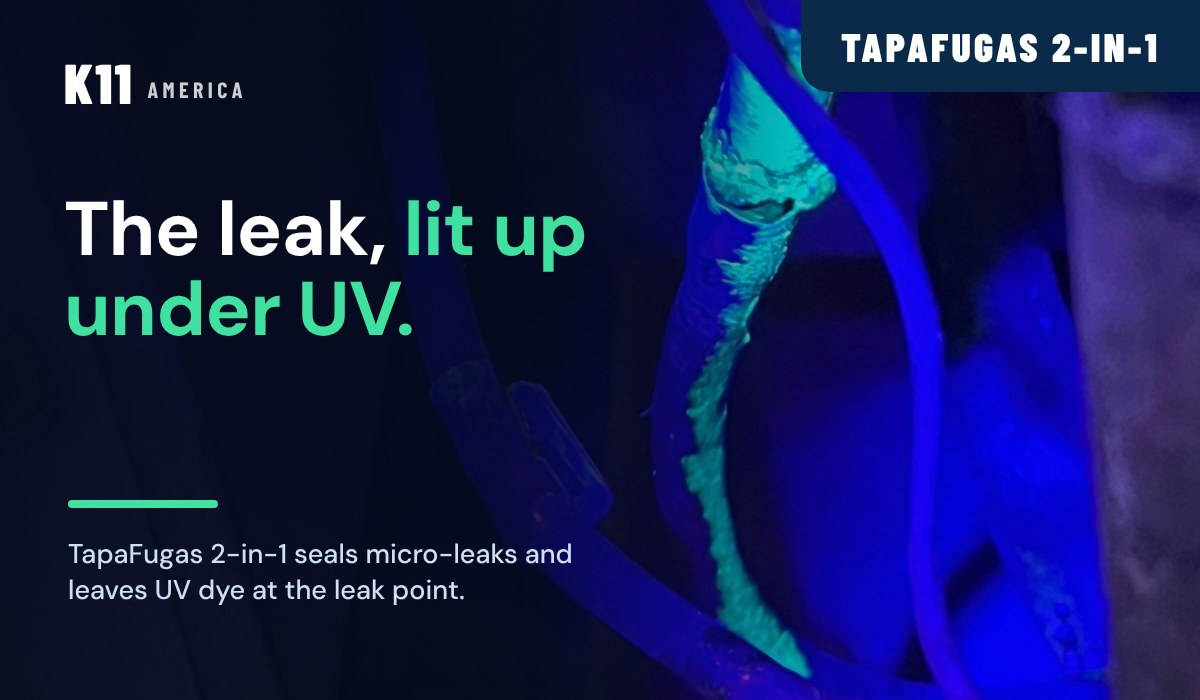
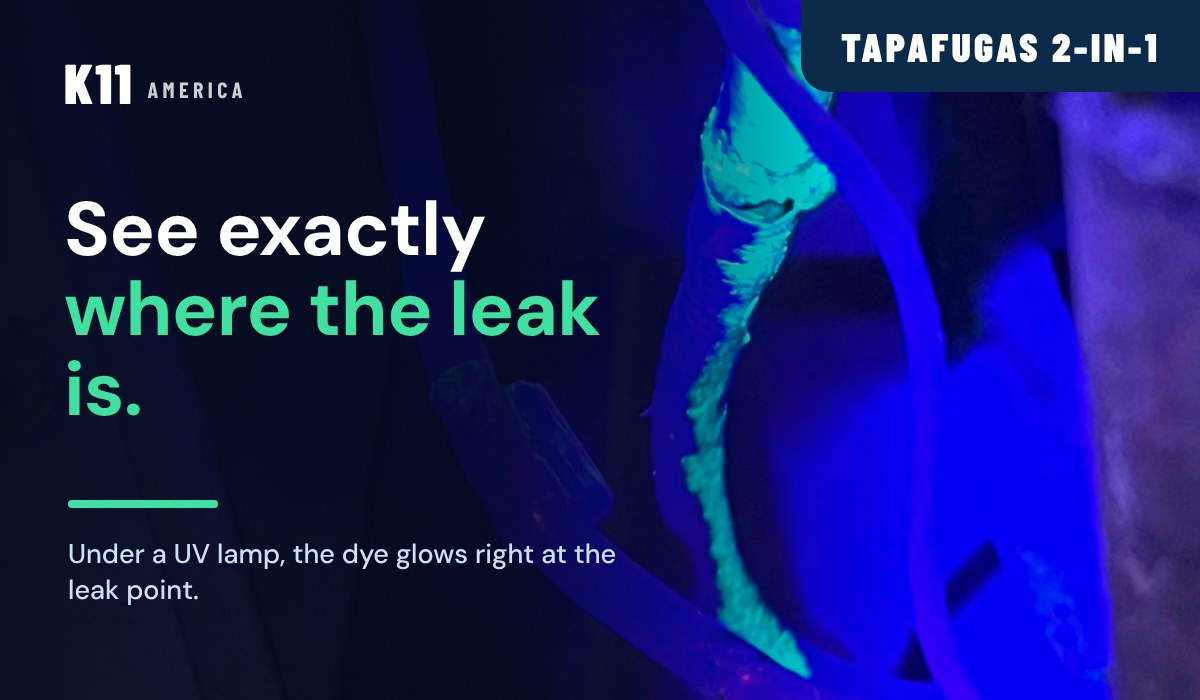
Campaña 100% en inglés; mail 2 en 1 con foto UV anotada
Claude-Session: https://claude.ai/code/session_01Jn8LK7FzASTasJC2Ctiu8V

diff --git a/api/_lib/campana_mail.js b/api/_lib/campana_mail.js
@@ -53,12 +53,12 @@ const M = {
            a: ['Sella Plus comes with a blue liquid, and it is there on purpose: it makes the product easier to see at the moment of application. A good point to share with the technicians who buy at your counter.', 'K11 explains it this way: the technician can see better where the product was applied, which adds control to the process.'] },
       listT: 'Why the color matters', list: [['Visible at application', 'The blue liquid makes it easier to see the product as you apply it.'], ['More control', 'You can see better where the product went.'], ['Easier future service', 'When opening or checking a unit, the technician can tell whether a sealant was applied before.'], ['Made for the routine', 'A choice made for those who apply, check and maintain the system.']],
       cta: 'See Sella Plus', ctaHref: 'h' },
-    6: { s: e => `See the leak under UV · TapaFugas 2-in-1 for ${e}`, pre: 'Seals micro-leaks and leaves UV dye at the leak point.',
-      hero: 'The leak, lit up under UV.',
-      photo: 'Field photo: UV dye glowing at the leak point under a UV lamp.',
-      p: { c: ['TapaFugas 2-in-1 does two jobs in one injection: it seals micro-leaks and leaves UV dye at the leak point.', 'With a UV lamp, the dye shows where the leak is, as in the field photo below. Fewer guesses on the next visit.'],
-           a: ['TapaFugas 2-in-1 does two jobs in one injection: it seals micro-leaks and leaves UV dye at the leak point. An easy one to demonstrate at your counter.', 'With a UV lamp, the dye shows where the leak is, as in the field photo below.'] },
-      listT: 'TapaFugas 2-in-1', list: [['Two jobs, one injection', 'Seals micro-leaks and leaves UV dye in the system.'], ['Visible with UV light', 'The dye glows at the leak point under a UV lamp.'], ['Same 10 ml syringe', 'Same dose guide as TapaFugas K11. Always follow the label.']],
+    6: { s: e => `See exactly where the leak is · TapaFugas 2-in-1 for ${e}`, pre: 'Seals micro-leaks and leaves UV dye at the leak point.',
+      hero: 'See exactly where the leak is.',
+      photo: 'Field photo under a UV lamp: the dye glows right at the leak point.',
+      p: { c: ['TapaFugas 2-in-1 does two jobs in one injection: it seals micro-leaks and leaves UV dye at the leak point.', 'Turn on a UV lamp and the dye glows right at the leak point, as in the field photo below. You see exactly where the leak is, so you do not have to guess.'],
+           a: ['TapaFugas 2-in-1 does two jobs in one injection: it seals micro-leaks and leaves UV dye at the leak point. An easy one to demonstrate at your counter.', 'Turn on a UV lamp and the dye glows right at the leak point, as in the field photo below. Easy to show to customers.'] },
+      listT: 'TapaFugas 2-in-1', list: [['Two jobs, one injection', 'Seals micro-leaks and leaves UV dye in the system.'], ['See the exact leak point', 'Under a UV lamp, the dye glows right where the leak is.'], ['Same 10 ml syringe', 'Same dose guide as TapaFugas K11. Always follow the label.']],
       cta: 'See TapaFugas 2-in-1', ctaHref: 'h' },
     4: { s: e => `Start small. Stock what moves. K11 Starter Packs · ${e}`, pre: 'Mixed units at one fixed price. Ships from Miami.',
       hero: 'Start small. Stock what moves.',
@@ -86,12 +86,12 @@ const M = {
            a: ['Sella Plus viene con un líquido azul, y está ahí a propósito: facilita ver el producto en el momento de la aplicación. Un buen dato para compartir con los técnicos que compran en su mostrador.', 'K11 lo explica así: el profesional puede ver mejor dónde fue aplicado el producto, lo que aporta más control al proceso.'] },
       listT: 'Por qué importa el color', list: [['Visible al aplicar', 'El líquido azul facilita ver el producto mientras se aplica.'], ['Más control', 'Se ve mejor dónde fue el producto.'], ['Servicio futuro más simple', 'Al abrir o revisar un equipo, el técnico puede identificar si ya hubo aplicación de sellador anteriormente.'], ['Pensado para la rutina', 'Una elección pensada para quienes aplican, revisan y mantienen el sistema.']],
       cta: 'Ver Sella Plus', ctaHref: 'h' },
-    6: { s: e => `Vea la fuga con luz UV · TapaFugas 2 en 1 para ${e}`, pre: 'Sella micro-fugas y deja tinte UV en el punto de la fuga.',
-      hero: 'La fuga, iluminada con luz UV.',
-      photo: 'Foto de campo: tinte UV brillando en el punto de la fuga bajo lámpara UV.',
-      p: { c: ['TapaFugas 2 en 1 hace dos trabajos en una sola inyección: sella micro-fugas y deja tinte UV en el punto de la fuga.', 'Con una lámpara UV, el tinte muestra dónde está la fuga, como en la foto de campo de abajo. Menos adivinar en la próxima visita.'],
-           a: ['TapaFugas 2 en 1 hace dos trabajos en una sola inyección: sella micro-fugas y deja tinte UV en el punto de la fuga. Fácil de demostrar en su mostrador.', 'Con una lámpara UV, el tinte muestra dónde está la fuga, como en la foto de campo de abajo.'] },
-      listT: 'TapaFugas 2 en 1', list: [['Dos trabajos, una inyección', 'Sella micro-fugas y deja tinte UV en el sistema.'], ['Visible con luz UV', 'El tinte brilla en el punto de la fuga bajo lámpara UV.'], ['Misma jeringa de 10 ml', 'Misma guía de dosis que TapaFugas K11. Siga siempre la etiqueta.']],
+    6: { s: e => `Vea exactamente dónde está la fuga · TapaFugas 2 en 1 para ${e}`, pre: 'Sella micro-fugas y deja tinte UV en el punto de la fuga.',
+      hero: 'Vea exactamente dónde está la fuga.',
+      photo: 'Foto de campo con lámpara UV: el tinte brilla justo en el punto de la fuga.',
+      p: { c: ['TapaFugas 2 en 1 hace dos trabajos en una sola inyección: sella micro-fugas y deja tinte UV en el punto de la fuga.', 'Encienda una lámpara UV y el tinte brilla justo en el punto de la fuga, como en la foto de campo de abajo. Ve exactamente dónde está la fuga, sin adivinar.'],
+           a: ['TapaFugas 2 en 1 hace dos trabajos en una sola inyección: sella micro-fugas y deja tinte UV en el punto de la fuga. Fácil de demostrar en su mostrador.', 'Encienda una lámpara UV y el tinte brilla justo en el punto de la fuga, como en la foto de campo de abajo. Fácil de mostrar a sus clientes.'] },
+      listT: 'TapaFugas 2 en 1', list: [['Dos trabajos, una inyección', 'Sella micro-fugas y deja tinte UV en el sistema.'], ['Vea el punto exacto de la fuga', 'Con lámpara UV, el tinte brilla justo donde está la fuga.'], ['Misma jeringa de 10 ml', 'Misma guía de dosis que TapaFugas K11. Siga siempre la etiqueta.']],
       cta: 'Ver TapaFugas 2 en 1', ctaHref: 'h' },
     4: { s: e => `Empiece de a poco. Surta lo que se mueve. Paquetes Starter K11 · ${e}`, pre: 'Unidades mixtas a precio cerrado. Envío desde Miami.',
       hero: 'Empiece de a poco. Surta lo que se mueve.',
@@ -111,7 +111,7 @@ function build(k, lang, emp) {
   const unsubHref = `mailto:info@wylcosolutions.com?subject=${C.un}`;
   const sec = s => `<div style="${H};font-weight:800;font-size:22px;letter-spacing:.06em;text-transform:uppercase;color:${NAVY};border-bottom:3px solid ${ORANGE};display:inline-block;padding-bottom:4px">${esc(s)}</div>`;
   const paras = t.p[aud] || t.p.c;
-  const photoH = t.photo ? `<tr><td class="pad" style="padding:6px 28px 0"><img src="${SITE}/assets/email/uv-field.jpg" width="544" alt="${esc(t.photo)}" style="display:block;width:100%;height:auto;border-radius:8px;border:0"><div style="${B};font-size:12px;color:#5b6070;margin-top:6px">${esc(t.photo)}</div></td></tr>` : '';
+  const photoH = t.photo ? `<tr><td class="pad" style="padding:6px 28px 0"><img src="${SITE}/assets/email/uv-field-${L}.jpg" width="544" alt="${esc(t.photo)}" style="display:block;width:100%;height:auto;border-radius:8px;border:0"><div style="${B};font-size:12px;color:#5b6070;margin-top:6px">${esc(t.photo)}</div></td></tr>` : '';
   let mid = '';
   if (t.list) mid = `<tr><td class="pad" style="padding:14px 28px 0">${sec(t.listT)}</td></tr><tr><td style="padding:12px 22px 6px"><table role="presentation" width="100%" cellpadding="0" cellspacing="0" style="background:${SOFT};border-radius:10px"><tr><td style="padding:14px 18px 8px">${t.list.map(x => `<div style="${B};font-size:14px;line-height:1.5;color:#1c1f27;margin:0 0 9px"><span style="${H};font-weight:800;font-size:17px;letter-spacing:.04em;text-transform:uppercase;color:${BLUE}">${esc(x[0])}</span><br>${esc(x[1])}</div>`).join('')}</td></tr></table></td></tr>`;
   if (t.table) {

diff --git a/CLAUDE.md b/CLAUDE.md
@@ -115,5 +115,6 @@ Archivos: js/i18n.js, pages/*.jsx, páginas estáticas (index.html, products.htm
 ## Campaña diciembre 2026 (25-nov)
 - `api/_lib/campana_mail.js`: mails 2-4 (camp2 prevención, camp3 dosis/BTU, camp4 Starter); sufijo a = distribuidores (A), c = contratistas. Heroes `assets/email/camp-hero-{2,3,4}-{en,es}.jpg`.
 - Secuencia por contacto (≥7 días entre mails): A/B/C = prod1,camp2,camp6,camp3,camp5,camp4; D = prod1,camp6,camp5,camp4; E = prod1,camp3. camp5 = Sella Plus azul; camp6 = TapaFugas 2 en 1 con foto de campo bajo luz UV (assets/email/uv-field.jpg). 480 contactos, 1570 envíos, 1-dic-2026 a 19-ene-2027, máx 60/día.
+- 25-nov: toda la campaña (prod1 y camp*) se envía en INGLÉS (rows l=en, incluidos los 9 de Hialeah). camp6 resalta el tinte UV con foto anotada (uv-field-en/es.jpg).
 - Interruptor: los rows prod*/camp* NO se envían hasta poner `CAMP_ON=1` en Vercel. camp* se omite si el contacto respondió o se dio de baja.
 - Rows históricos (cont/dist/nac) intactos. Calendario completo en data.json.
